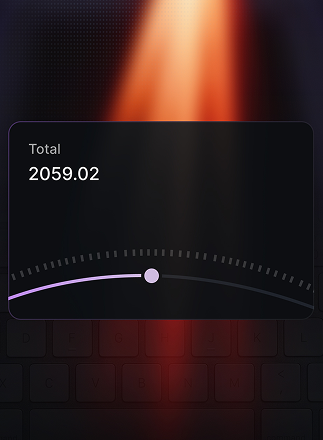
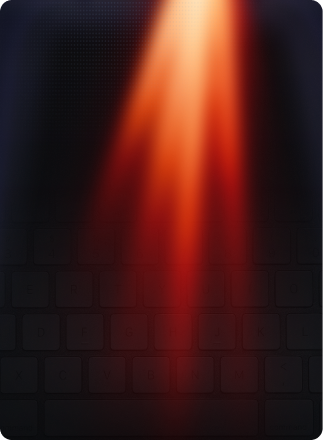
jhj

diff --git a/index.html b/index.html
@@ -64,6 +64,14 @@
         <div class="gambling-wrap G-flex-wrap">
             <div class="gambling-boxes G-flex animate-on-scroll delay-200">
                 <img src="./assets/img/gambling-1.png" alt="gambling">
+                <div class="bonus-engine">
+                    <span>Total</span>
+                    <strong>2059.02</strong>
+
+                    <div class="circle-anime G-flex">
+                        <img src="./assets/img/circle.png" alt="circle">
+                    </div>
+                </div>
                 <div class="gambling-name G-flex">
                     <h4>Works with your existing CRM and bonus engine</h4>
                 </div>
@@ -300,34 +308,21 @@
 
         <div class="steps-slider animate-on-scroll delay-300">
 
-            <!-- Верхняя часть: карточки -->
             <div class="slides-wrapper">
-
                 <div class="slide active" data-slide="0">
-
-                    <img src="./assets/img/slide-photo.jpg" alt="">
+                    <img src="./assets/img/slide-photo.jpg" alt="steps">
                 </div>
-
                 <div class="slide" data-slide="1">
-                    <img src="./assets/img/slide-photo.jpg" alt="">
-
+                    <img src="./assets/img/slide-photo-2.jpg" alt="steps">
                 </div>
-
                 <div class="slide" data-slide="2">
-                    <img src="./assets/img/slide-photo.jpg" alt="">
-
+                    <img src="./assets/img/slide-photo-3.jpg" alt="steps">
                 </div>
-
                 <div class="slide" data-slide="3">
-                    <img src="./assets/img/slide-photo.jpg" alt="">
-
+                    <img src="./assets/img/slide-photo-4.jpg" alt="steps">
                 </div>
-
             </div>
-
-            <!-- Нижняя часть: шаги -->
             <div class="steps-nav">
-
                 <div class="step-item active" data-step="0">
                     <div class="step-top">
                         <div class="step-line"><div class="step-line-fill"></div></div>
@@ -345,9 +340,11 @@
                         <span class="step-label">STEP 2</span>
                     </div>
                     <div class="step-content">
-                        <h4 class="step-title">Analyze behavior</h4>
-                        <p class="step-desc">AI detects patterns and<br>segments your players.</p>
+                        <h4 class="step-title">Retentica scores churn risk</h4>
+                        <p class="step-desc">We calculate who is likely to leave and who is worth saving.</p>
                     </div>
+
+
                 </div>
 
                 <div class="step-item" data-step="2">
@@ -356,8 +353,8 @@
                         <span class="step-label">STEP 3</span>
                     </div>
                     <div class="step-content">
-                        <h4 class="step-title">Get decisions</h4>
-                        <p class="step-desc">Receive smart retention<br>recommendations in real time.</p>
+                        <h4 class="step-title">Actions are triggered in your stack</h4>
+                        <p class="step-desc">CRM, bonus engine, VIP team, or support team receives the next-best action.</p>
                     </div>
                 </div>
 
@@ -368,8 +365,8 @@
 
                     </div>
                     <div class="step-content">
-                        <h4 class="step-title">Take action</h4>
-                        <p class="step-desc">Push personalized offers and<br>campaigns automatically.</p>
+                        <h4 class="step-title">You see measurable impact</h4>
+                        <p class="step-desc">Treatment vs control, recovered players, bonus cost, and revenue uplift.</p>
                     </div>
                 </div>
 
@@ -436,7 +433,7 @@
                 <div class="swiper-wrapper">
                     <div class="swiper-slide">
                         <div class="helps-improve-box G-flex">
-                            <img src="./assets/img/helps-improve.jpg" alt="improve">
+                            <img src="./assets/img/helps-improve.png" alt="improve">
                             <div class="improve-prevention">
                                 <h4>Churn prevention</h4>
                                 <p>Catch at-risk players before inactivity becomes permanent</p>
@@ -445,7 +442,7 @@
                     </div>
                     <div class="swiper-slide">
                         <div class="helps-improve-box G-flex">
-                            <img src="./assets/img/helps-improve.jpg" alt="improve">
+                            <img src="./assets/img/helps-improve-2.png" alt="improve">
                             <div class="improve-prevention">
                                 <h4>Bonus optimization</h4>
                                 <p>Reduce wasted bonuses and target the players who actually respond</p>
@@ -454,7 +451,7 @@
                     </div>
                     <div class="swiper-slide">
                         <div class="helps-improve-box G-flex">
-                            <img src="./assets/img/helps-improve.jpg" alt="improve">
+                            <img src="./assets/img/helps-improve-3.png" alt="improve">
                             <div class="improve-prevention">
                                 <h4>VIP protection</h4>
                                 <p>Escalate high-value players before they disappear</p>
@@ -463,22 +460,14 @@
                     </div>
                     <div class="swiper-slide">
                         <div class="helps-improve-box G-flex">
-                            <img src="./assets/img/helps-improve.jpg" alt="improve">
+                            <img src="./assets/img/helps-improve-4.png" alt="improve">
                             <div class="improve-prevention">
                                 <h4>VIP protection</h4>
                                 <p>Escalate high-value players before they disappear</p>
                             </div>
                         </div>
                     </div>
-                    <div class="swiper-slide">
-                        <div class="helps-improve-box G-flex">
-                            <img src="./assets/img/helps-improve.jpg" alt="improve">
-                            <div class="improve-prevention">
-                                <h4>VIP protection</h4>
-                                <p>Escalate high-value players before they disappear</p>
-                            </div>
-                        </div>
-                    </div>
+
                 </div>
             </div>
             <div class="improve-btn G-align-center G-justify-end">
@@ -680,6 +669,7 @@
 
 
 <script src="assets/js/jquery-3.6.4.js"></script>
+<script src="assets/js/jquery.formstyler.min.js"></script>
 <script src="assets/js/swiper-bundle.min.js"></script>
 <script src="assets/js/script.js"></script>
 </body>

diff --git a/assets/css/home.css b/assets/css/home.css
@@ -302,11 +302,41 @@ p{
     width: 130px;
 }
 
+.bonus-engine{
+    padding: 14px 19px;
+    border: 1px solid rgba(181, 116, 247, 0.34);
+    background: #0C0E12;
+    position: absolute;
+    top: 126px;
+    width: calc(100% - 32px);
+    left: 16px;
+    height: 189px;
+    border-radius: 12px;
+    overflow: hidden;
+}
 
 
-
-
-
+.bonus-engine span{
+    font-weight: 500;
+    font-size: 13px;
+    line-height: 24px;
+    color: #FFFFFF;
+    opacity: 0.60;
+}
+.bonus-engine strong{
+    font-weight: 400;
+    font-size: 19px;
+    line-height: 24px;
+    color: #FFFFFF;
+    display: block;
+}
+.circle-anime{
+    width: 740px;
+    position: absolute;
+    left: 50%;
+    transform: translateX(-50%);
+    top: 108px;
+}
 
 .most-opera-main{
     overflow: hidden;
@@ -338,7 +368,7 @@ p{
 .most-opera-rel{
     position: relative;
     margin: 0 auto;
-    max-width: 1440px;
+    max-width: 1680px;
     width: 100%;
     height: 100%;
     padding: 80px 0 220px;
@@ -404,13 +434,18 @@ p{
 
 .most-opera-fon {
     position: absolute;
-    bottom: 220px;
+    bottom: 208px;
+    left: 0;
+    max-width: 521px;
+    width: 100%;
 }
 
 .most-opera-right{
     position: absolute;
-    top: 255px;
+    top: 225px;
     right: 0;
+    max-width: 755px;
+    width: 100%;
 }
 
 
@@ -1163,6 +1198,8 @@ p{
 .pays-itself-cnt{
     gap: 84px;
     margin-left: 180px;
+    position: relative;
+    z-index: 1;
 }
 .pays-itself-col{
     max-width: 438px;
@@ -1223,9 +1260,13 @@ p{
     display: flex;
     align-items: center;
     justify-content: center;
+    transition: 0.3s;
 }
-.btn-arrow:hover{
-
+.btn-arrow i{
+    transition: 0.3s;
+}
+.btn-arrow:hover i{
+    transform: translateX(8px);
 }
 
 .pays-itself-photo{
